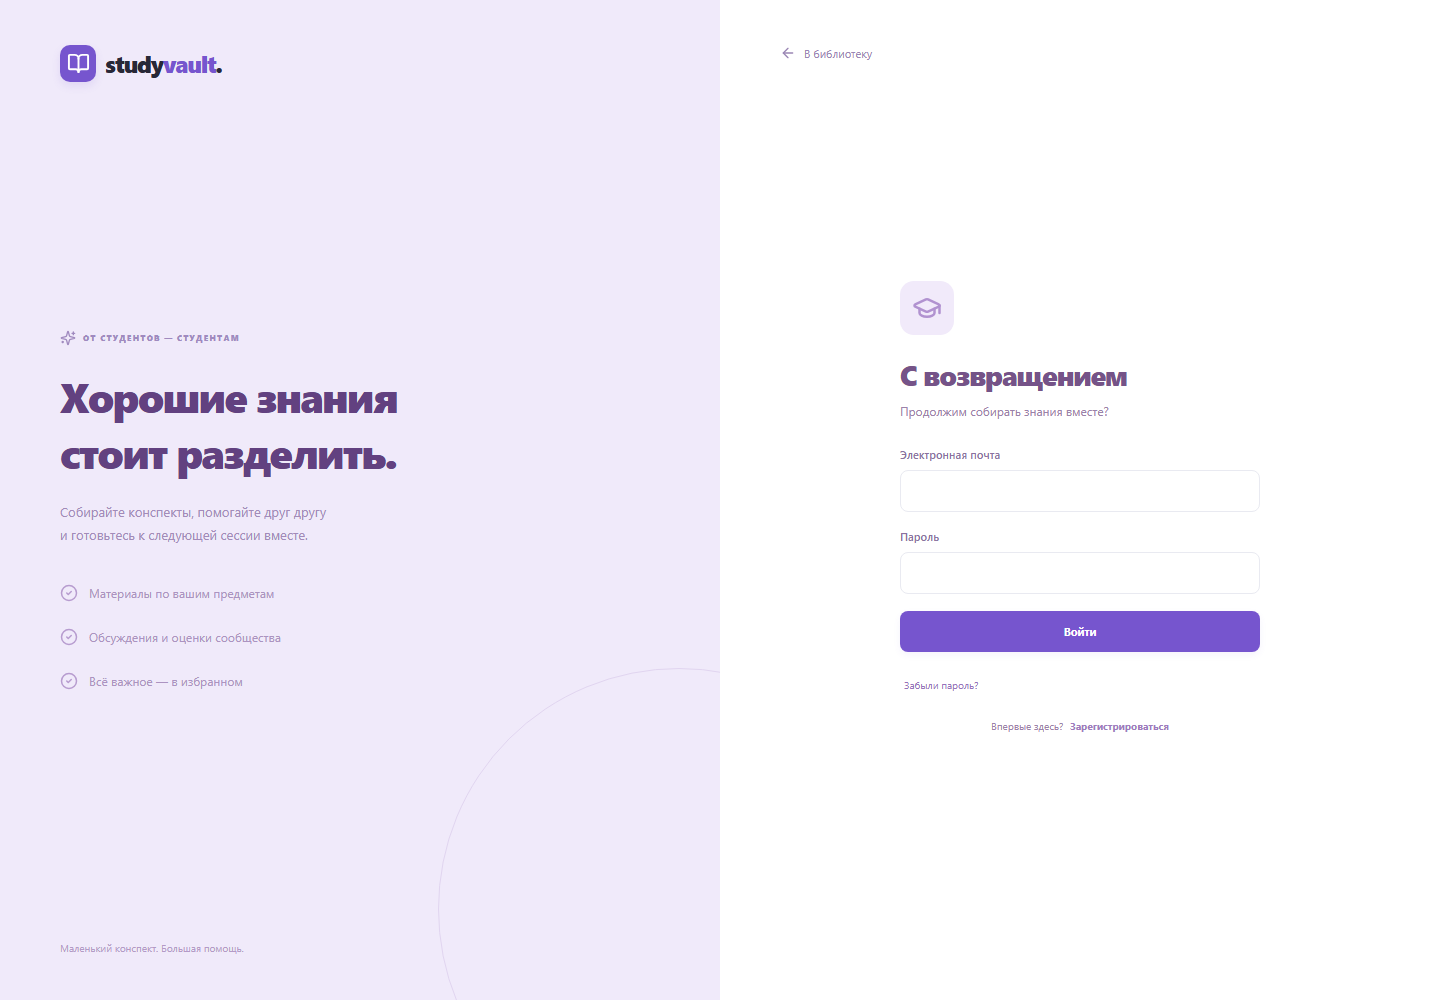
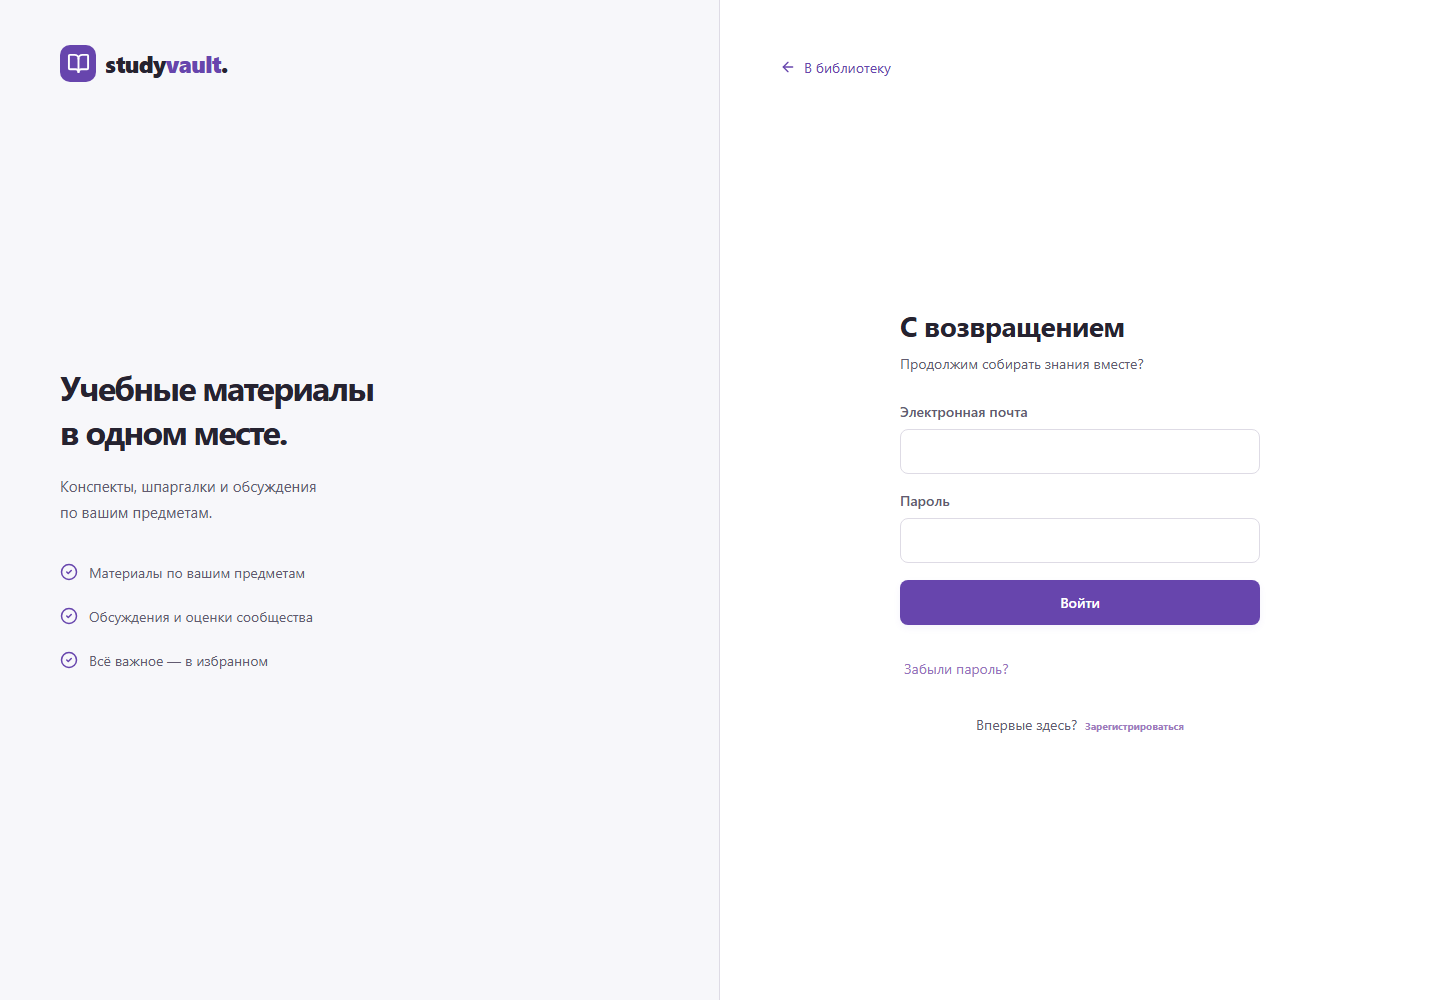
docs(submission): refresh screenshots for the simplified interface

diff --git a/docs/submission/README.md b/docs/submission/README.md
@@ -29,7 +29,9 @@ Node.js на компьютере для полного сайта не нуже
 
 Библиотека, поиск по тексту и фильтры, авторы и рейтинг, чтение и скачивание; регистрация, вход и восстановление сессии; подтверждение почты и сброс пароля; профиль, смена пароля и удаление аккаунта. Личные конспекты с редактором, тегами, предметами и файлами; публикация и модерация; комментарии с редактированием, оценки и избранное.
 
-Добавлены окно быстрого поиска, панель активности своих материалов, выбор предметов, справка, меню пользователя, тёмная тема, мобильная версия и защита несохранённого текста. Редактор и демоверсия загружаются отдельно: начальный JavaScript библиотеки — 423 117 байт вместо прежних примерно 899 КБ. Замер записан в capture.json.
+Добавлены окно быстрого поиска, панель активности своих материалов, выбор предметов, справка, меню пользователя, тёмная тема, мобильная версия и защита несохранённого текста. Редактор и демоверсия загружаются отдельно: начальный JavaScript библиотеки — 421 337 байт вместо прежних примерно 899 КБ. Замер записан в capture.json.
+
+Библиотека открывается сразу с поиском и материалами. Декоративные баннеры и обложки убраны; подписи карточек увеличены, цвета текста объединены в тематические токены. Кнопки закладки и перехода к автору имеют область нажатия не меньше 44 px. Обновлены формы входа и чтение конспекта.
 
 ## Проверки
 
